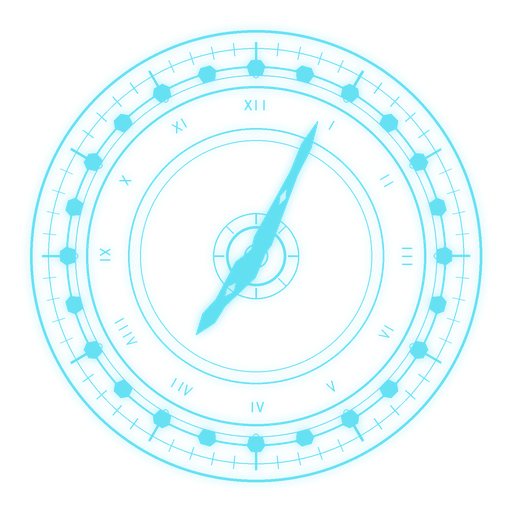
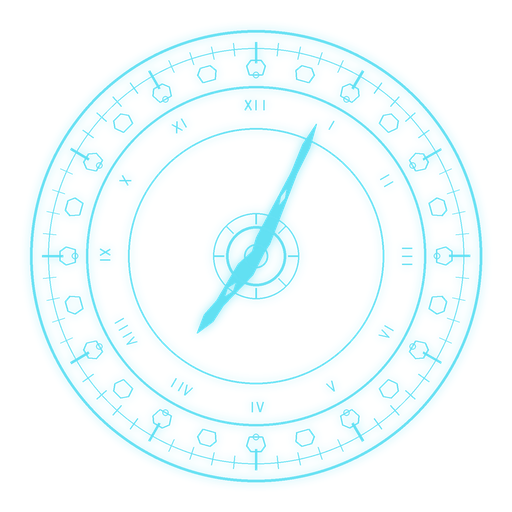
時計の魔法陣を作り込み、闇属性から渦巻きを廃して視認性を上げた
Claude-Session: https://claude.ai/code/session_01MqFas7eGWQ4GTcbKYNTVzb

diff --git a/chrono-arena/scripts/generate_effect_textures.py b/chrono-arena/scripts/generate_effect_textures.py
@@ -347,11 +347,8 @@ def rune_mask(kind: str) -> Image.Image:
         ring(42, 1.25)
     elif kind == "chrono":
         # 太細のリングを重ね、時計の文字盤と歯車帯を分けて読ませる。
-        ring(190, 1.9)
-        ring(181, 1.05)
         ring(170, 2.3)
         ring(128, 1.7)
-        ring(116, 1.0)
         for tick in range(60):
             angle = tick * math.tau / 60 - math.pi / 2
             outer = 214
@@ -525,7 +522,7 @@ def swirl() -> Image.Image:
     glow = mask.filter(ImageFilter.GaussianBlur(6.2 * AA))
     image = Image.new("RGBA", mask.size, (0, 0, 0, 0))
     glow_layer = Image.new("RGBA", mask.size, (194, 194, 194, 0))
-    glow_layer.putalpha(glow.point(lambda value: round(value * 0.48)))
+    glow_layer.putalpha(glow.point(lambda value: round(value * 0.65)))
     image.alpha_composite(glow_layer)
     core_layer = Image.new("RGBA", mask.size, (225, 225, 225, 0))
     core_layer.putalpha(mask)
